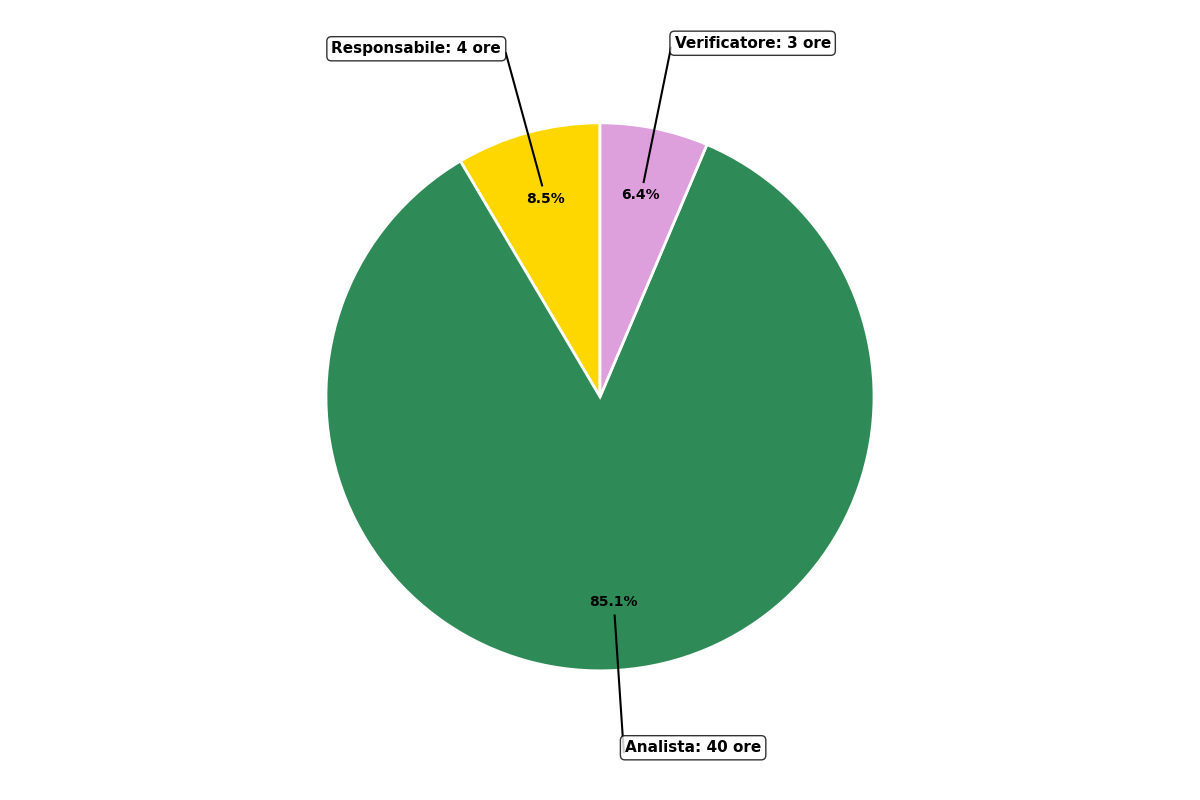
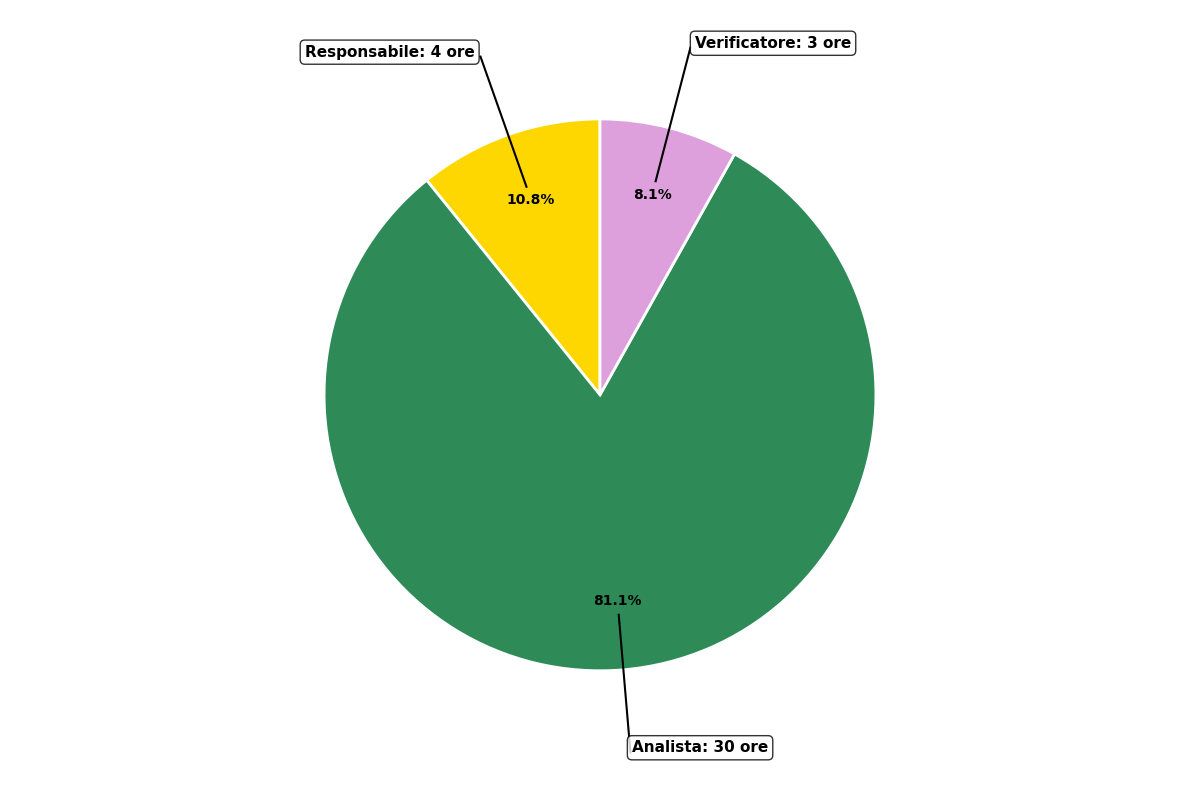
Correzioni minori al Piano di Progetto

diff --git a/src/RTB/Documenti Esterni/Piano di Progetto/sprint/sprint04.tex b/src/RTB/Documenti Esterni/Piano di Progetto/sprint/sprint04.tex
@@ -11,7 +11,7 @@
 \newline \newline 
 Le nostre attività da svolgere, definite nel \href{https://nullpointersgroup.github.io/Documentazione/output/RTB/Verbali\%20Interni/2025-12-15\_verbale\_interno.pdf}{Verbale interno del 15/12/2025}, \href{https://nullpointersgroup.github.io/Documentazione/output/RTB/Verbali\%20Interni/2025-12-17\_verbale\_interno.pdf}{Verbale interno del 17/12/2025} e nel \href{https://nullpointersgroup.github.io/Documentazione/output/RTB/Verbali\%20Interni/2025-12-23\_verbale\_interno.pdf}{Verbale interno del 23/12/2025} sono:
 \begin{itemize}[itemsep=5pt, parsep=1pt, label=$\scriptstyle\bullet$]
-	\item Continuazione Analisi di Requisiti: sezione Introduzione, Attori, Requisiti di qualità e di vincolo
+	\item Continuazione Analisi di Requisiti: sezione Attori, Requisiti di qualità e di vincolo
 	\item Continuazione Analisi di Requisiti: sezione Casi d’Uso (1-29/36-51)
 \end{itemize}
 
@@ -41,17 +41,17 @@ Si prospetta l'utilizzo delle seguenti risorse:\newpage
 	% Seconda tabella con i dati e i bordi
 	\begin{tabular}{|p{0.2\textwidth}|p{0.12\textwidth}|p{0.12\textwidth}|p{0.12\textwidth}|p{0.12\textwidth}|p{0.12\textwidth}|p{0.12\textwidth}|}
 		\hline
-		M. Mazzaretto & - & - & 8 & - & - & - \\ \hline
-		T. Ceron      & - & - & 8 & - & 1 & - \\ \hline
-		L. Pieripolli & - & - & 8 & - & 1 & - \\ \hline
-		L. Marcuzzo   & 4 & 5 & - & - & - & - \\ \hline
-		M. Brunello   & - & - & 8 & - & 1 & - \\ \hline
-		L. Casagrande & - & 5 & 8 & - & - & - \\ \hline
+		M. Mazzaretto & - & - & 6 & - & - & - \\ \hline
+		T. Ceron      & - & - & 6 & - & 1 & - \\ \hline
+		L. Pieripolli & - & - & 6 & - & 1 & - \\ \hline
+		L. Marcuzzo   & 4 & - & - & - & - & - \\ \hline
+		M. Brunello   & - & - & 6 & - & 1 & - \\ \hline
+		L. Casagrande & - & - & 6 & - & - & - \\ \hline
 	\end{tabular}
 	\caption{Sprint 4: Preventivo}
 \end{table}
 
-Il totale preventivato per lo sprint$^G$ è \textbf{1165€}.\\
+Il totale preventivato per lo sprint$^G$ è \textbf{915€}.\\
 
 \begin{figure}[H]
 	\centering

diff --git a/src/RTB/Documenti Esterni/Piano di Progetto/Piano_di_Progetto.tex b/src/RTB/Documenti Esterni/Piano di Progetto/Piano_di_Progetto.tex
@@ -42,7 +42,7 @@
 \fancyhead[R]{Piano di Progetto}
 \renewcommand{\headrulewidth}{0.4pt}
 % Piè di pagina
-\fancyfoot[C]{Pagina \thepage{} di \pageref{LastPage}}
+\fancyfoot[C]{Pagina \thepage{} di \pageref*{LastPage}}
 \renewcommand{\footrulewidth}{0.4pt}
 
 % --- Ridefinizione dello stile plain per gli indici ---
@@ -50,7 +50,7 @@
   \fancyhf{}
   \fancyhead[L]{NullPointers Group}
   \fancyhead[R]{Piano di Progetto}
-  \fancyfoot[C]{Pagina \thepage{} di \pageref{LastPage}}
+  \fancyfoot[C]{Pagina \thepage{} di \pageref*{LastPage}}
   \renewcommand{\headrulewidth}{0.4pt}
   \renewcommand{\footrulewidth}{0.4pt}
 }
@@ -58,7 +58,7 @@
 % --- Solo piè di pagina per la prima pagina ---
 \fancypagestyle{firstpage}{
   \fancyhf{}
-  \fancyfoot[C]{Pagina \thepage{} di \pageref{LastPage}}
+  \fancyfoot[C]{Pagina \thepage{} di \pageref*{LastPage}}
   \renewcommand{\headrulewidth}{0pt}
   \renewcommand{\footrulewidth}{0.4pt}
 }

diff --git a/src/RTB/Documenti Esterni/Piano di Progetto/sprint/sprint03.tex b/src/RTB/Documenti Esterni/Piano di Progetto/sprint/sprint03.tex
@@ -5,8 +5,8 @@
 \begin{tabular}{p{0.25\textwidth} p{0.2\textwidth}}
 	\textbf{Inizio} & 01/12/2025 \\
 	\textbf{Fine prevista} & 15/12/2025 \\
-	\textbf{Fine reale} & \\
-	\textbf{Giorni di ritardo} &
+	\textbf{Fine reale} & 15/12/2025 \\
+	\textbf{Giorni di ritardo} & 0
 \end{tabular}
 \newline \newline 
 Le nostre attività da svolgere, definite nel \href{https://nullpointersgroup.github$^G$.io/Documentazione/output/RTB/Verbali\%20Interni/2025-12-01_verbale_interno.pdf}{Verbale interno del 01/12/2025} sono:

diff --git a/src/RTB/Documenti Esterni/Piano di Progetto/content/table.tex b/src/RTB/Documenti Esterni/Piano di Progetto/content/table.tex
@@ -1,8 +1,8 @@
 \begin{center}
 \begin{tabular}{r|l}
     Stato & In Approvazione \\[0.5em]
-    Versione & 0.3.0 \\[0.5em]
-    Data ultima modifica & 02/12/2025 \\[0.5em]
+    Versione & 0.4.0 \\[0.5em]
+    Data ultima modifica & 27/12/2025 \\[0.5em]
     Redattori & Luca Marcuzzo \\
               & Matteo Mazzaretto \\
               & Marco Brunello \\
